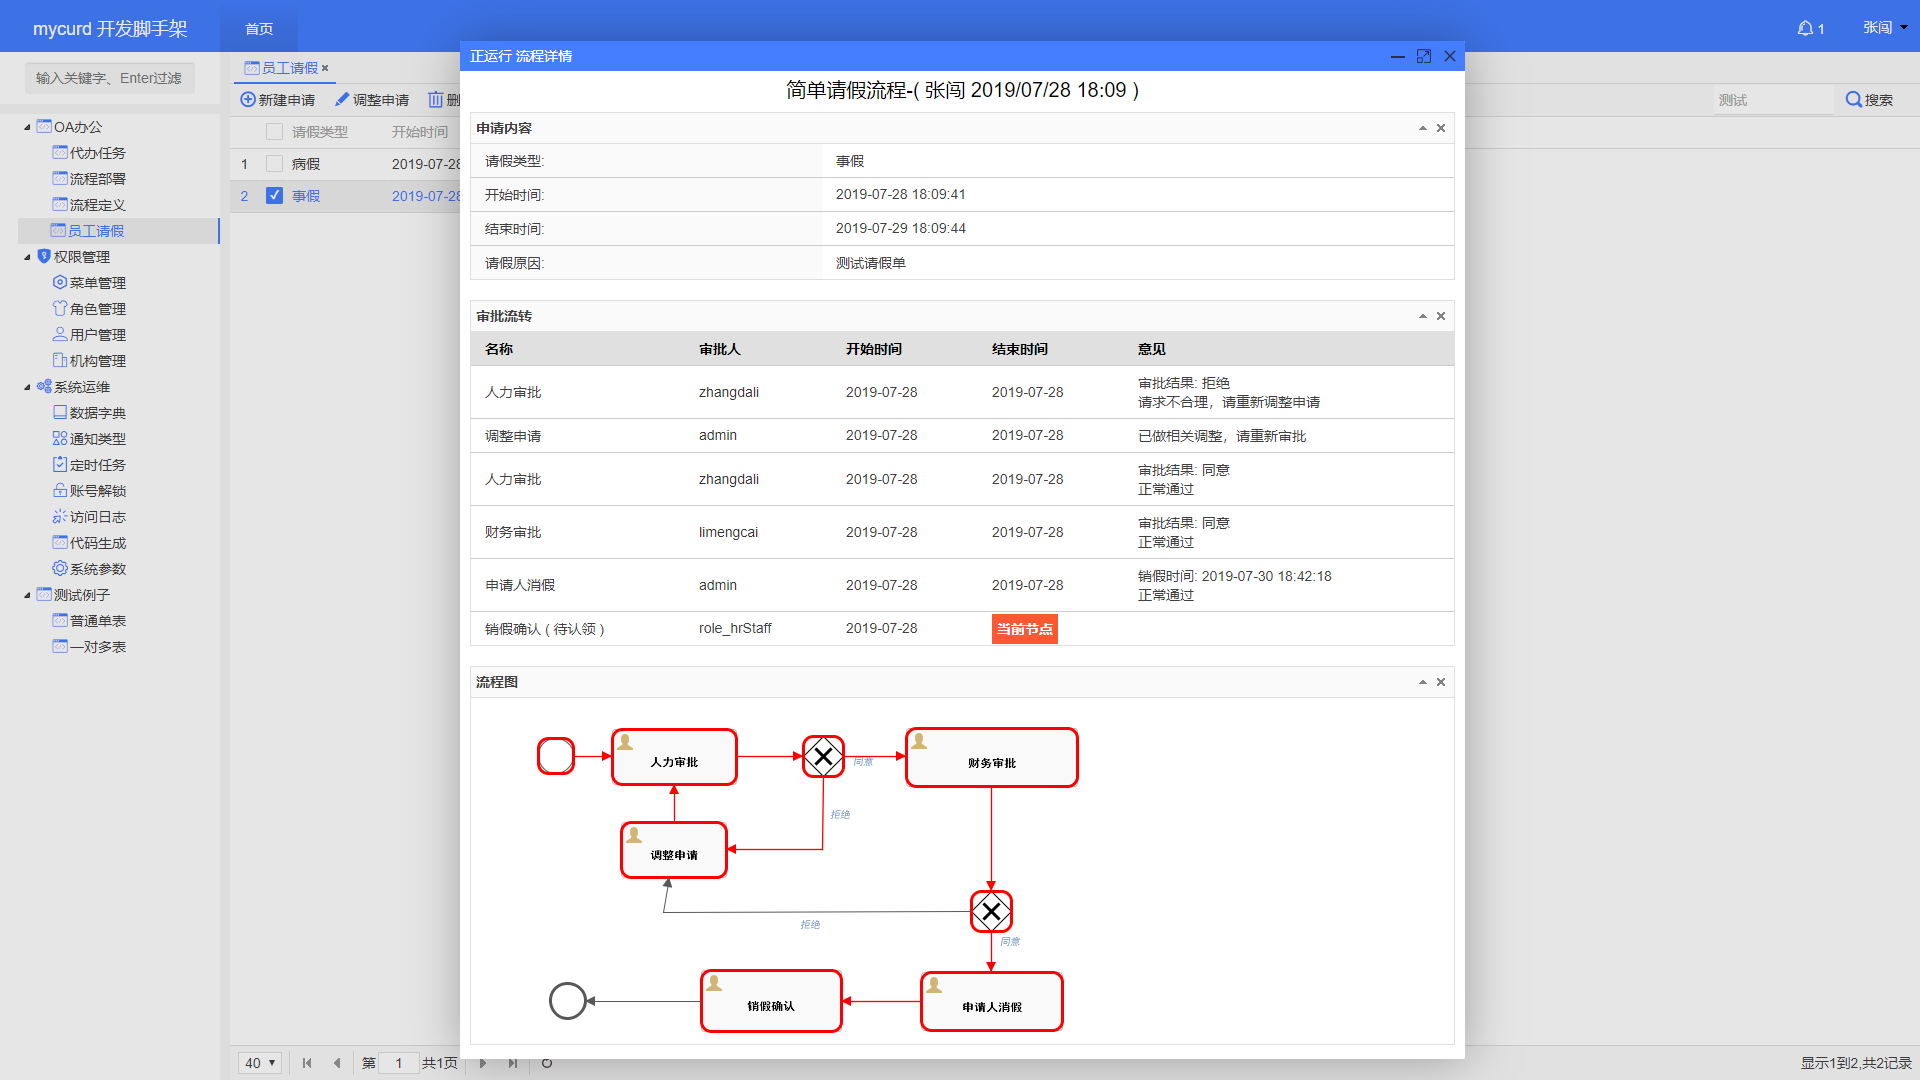
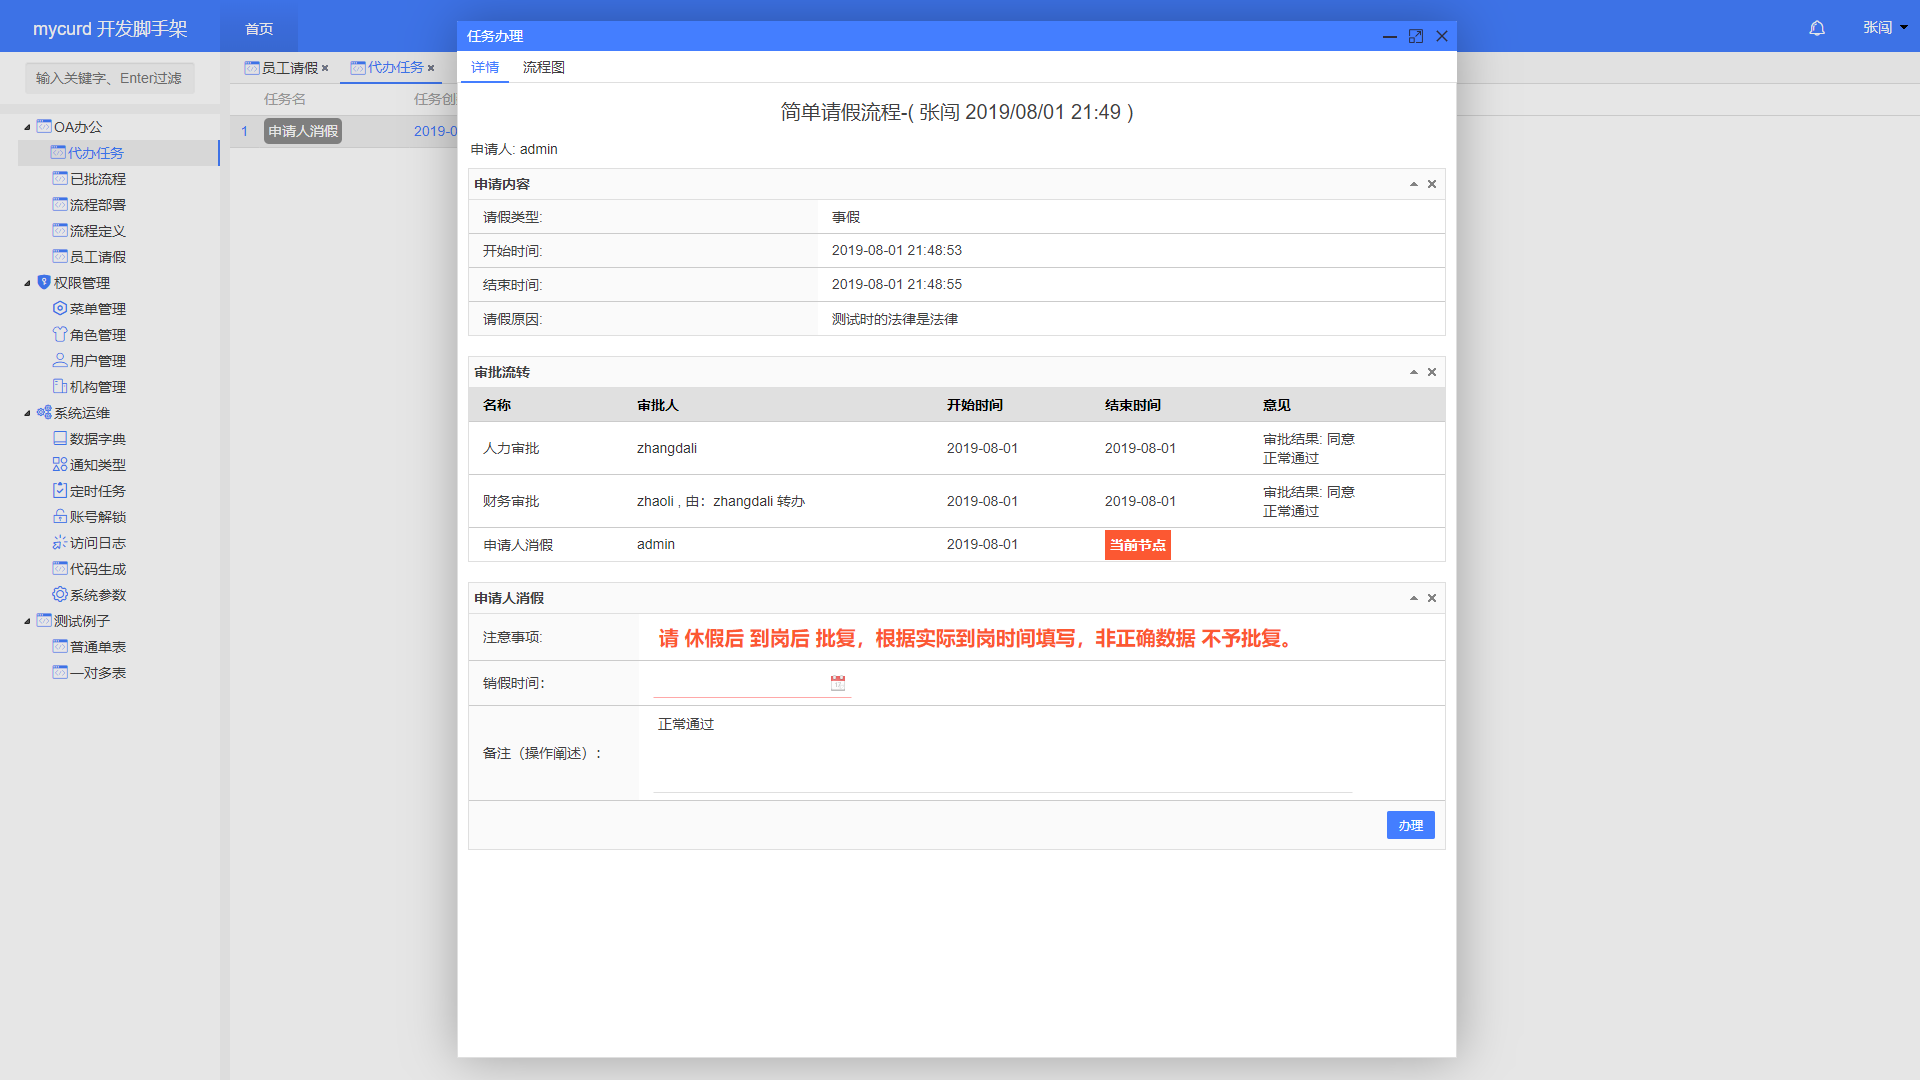
优化代码 & 流程审批 增加任务转办功能

diff --git a/src/main/webapp/static/js/utils.js b/src/main/webapp/static/js/utils.js
@@ -182,3 +182,24 @@ function commonSingleFileUpload(files,type,ctx,okCallback){
         }
     });
 }
+
+// datagrid cell 高亮格式化
+function highlightFmt(val){
+    return '<span class="datagrid-ell-highlight">'+val+'</span>';
+}
+
+
+
+var winIndex;
+
+// 用户选择弹窗
+function openUtilsUser(singleSelect,yesBtnTxt){
+    winIndex = popup.openIframe('用户选择', ctx+"/utils/user?singleSelect="+singleSelect+"&yesBtnTxt="+yesBtnTxt,
+        "600px","400px");
+}
+
+// 角色选择弹窗
+function openUtilsRole(singleSelect,yesBtnTxt) {
+    winIndex = popup.openIframe('角色选择',ctx+"/utils/role?singleSelect="+singleSelect+"&yesBtnTxt="+yesBtnTxt, '500px', '400px');
+}
+

diff --git a/src/main/java/com/github/qinyou/oa/controller/MyToDoTaskController.java b/src/main/java/com/github/qinyou/oa/controller/MyToDoTaskController.java
@@ -15,6 +15,7 @@ import com.jfinal.plugin.activerecord.Record;
 import com.jfinal.plugin.activerecord.tx.Tx;
 import com.jfinal.plugin.activerecord.tx.TxConfig;
 import lombok.extern.slf4j.Slf4j;
+import org.activiti.engine.TaskService;
 import org.activiti.engine.runtime.ProcessInstance;
 import org.activiti.engine.task.Task;
 import org.activiti.engine.task.TaskQuery;
@@ -24,6 +25,7 @@ import java.util.LinkedHashMap;
 import java.util.List;
 import java.util.Map;
 
+@SuppressWarnings("Duplicates")
 @Slf4j
 @RequireMenuCode("myToDoTask")
 public class MyToDoTaskController extends BaseController {
@@ -136,8 +138,7 @@ public class MyToDoTaskController extends BaseController {
     }
 
     /**
-     * 任务办理
-     * 审批表单 只有 固定的两个字段， 不合适
+     * 完成任务
      */
     @TxConfig(ActivitiConfig.DATASOURCE_NAME)
     @Before({IdRequired.class, Tx.class})
@@ -181,4 +182,35 @@ public class MyToDoTaskController extends BaseController {
 
         renderSuccess("办理成功");
     }
+
+
+    // 转办
+    @TxConfig(ActivitiConfig.DATASOURCE_NAME)
+    @Before(Tx.class)
+    public void changeAssigneeAction(){
+        String taskId = getPara("taskId"); // taskId;
+        String username = getPara("username");
+        if (StringUtils.isEmpty(taskId) || StringUtils.isEmpty(username)){
+            renderFail("参数缺失");
+            return;
+        }
+        TaskService taskService = ActivitiUtils.getTaskService();
+        Task task = taskService.createTaskQuery().taskId(taskId).singleResult();
+        if(task==null){
+            renderFail("任务不存在");
+            return;
+        }
+        if(username.equals(task.getAssignee())){
+            renderFail("原任务处理人 和 转办人 不可相同");
+            return;
+        }
+
+        // 设置上个任务处理人
+        ActivitiUtils.getTaskService().setVariableLocal(taskId,"lastAssignee",task.getAssignee());
+        ActivitiUtils.getTaskService().setAssignee(taskId,username);
+        renderSuccess("转办 操作成功 ");
+    }
+
+
+
 }

diff --git a/src/main/java/com/github/qinyou/oa/controller/OAController.java b/src/main/java/com/github/qinyou/oa/controller/OAController.java
@@ -119,6 +119,7 @@ public class OAController extends BaseController {
         String processInstanceId = get("id"); // 流程实例id (运行时或历史均可)
         List<HistoricTaskInstance> historicTaskInstances = ActivitiUtils.getHistoryService().createHistoricTaskInstanceQuery()
                 .processInstanceId(processInstanceId)
+                .includeTaskLocalVariables()
                 .orderByTaskCreateTime()
                 .asc()
                 .list();
@@ -133,6 +134,13 @@ public class OAController extends BaseController {
                     .setCreateTime(historicTaskInstance.getCreateTime())
                     .setClaimTime(historicTaskInstance.getClaimTime())
                     .setOwner(historicTaskInstance.getOwner());
+
+            // 如果有 转办任务
+            String lastAssignee = (String) historicTaskInstance.getTaskLocalVariables().get("lastAssignee");
+            if(StringUtils.notEmpty(lastAssignee)){
+                historicTaskInfo.setLastAssignee(lastAssignee);
+            }
+
             if(StringUtils.notEmpty(historicTaskInstance.getAssignee())){
                  historicTaskInfo.setAssignee(historicTaskInstance.getAssignee());
             }else{

diff --git a/src/main/java/com/github/qinyou/oa/vo/HistoricTaskInfo.java b/src/main/java/com/github/qinyou/oa/vo/HistoricTaskInfo.java
@@ -24,8 +24,11 @@ public class HistoricTaskInfo {
     private Date claimTime;
     // 审批人
     private String assignee;
-    // 原审批人（针对转办任务)
-    private String owner;
+
+
+    // 原审批人（针对任务转办）
+    private String lastAssignee;
+
     // 评论列表
     private List<String> comments;
     // 候选组

diff --git a/README.md b/README.md
@@ -33,6 +33,7 @@
 
 ##### 业务表数据流程审批
 ![业务表数据流程审批](https://raw.githubusercontent.com/qinyou/my_curd/master/preview/process.png "process.png")
+![业务表数据流程审批](https://raw.githubusercontent.com/qinyou/my_curd/master/preview/process_detail.png "process_detail.png")
 
 
 
